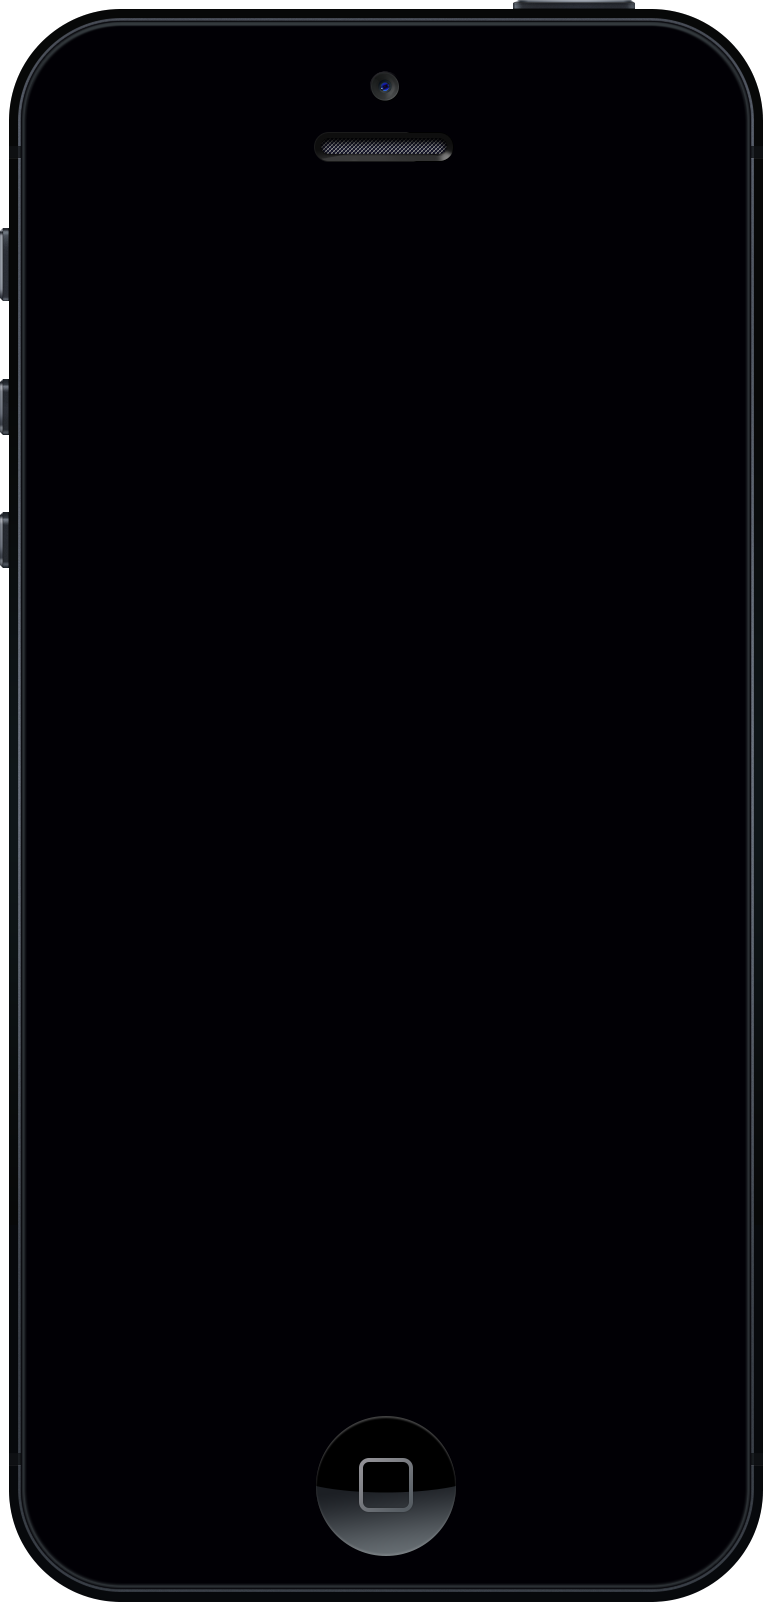
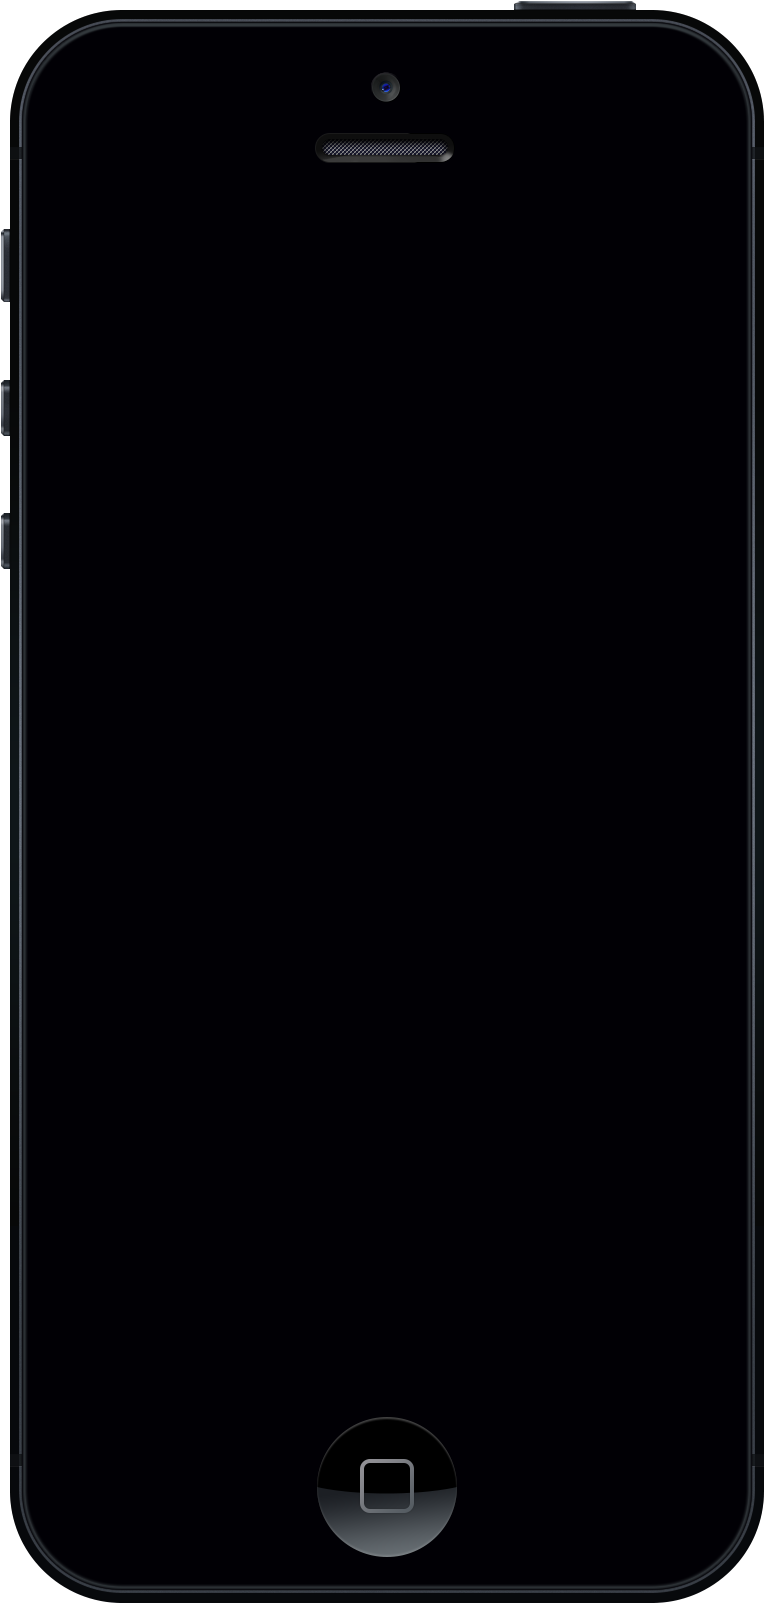
Fixed blurred devices

diff --git a/Resources/iPad/styles.css b/Resources/iPad/styles.css
@@ -3,8 +3,8 @@
 
 .simulator {
 	background: url(ipad.png) no-repeat;
-	background-size: 966px 1255px;
-	height: 1255px;
+	background-size: 966px 1256px;
+	height: 1256px;
 	padding-top: 115px;
 	padding-bottom: 115px;
 	padding-left: 100px;
@@ -14,8 +14,8 @@
 
 .simulator .simulator-glare {
 	background: url(ipad-glare.png) no-repeat top right;
-    background-size: 966px 1255px;
-	height: 1255px;
+    background-size: 966px 1256px;
+	height: 1256px;
 	width: 966px;
 }
 

diff --git a/Resources/iPhone5/styles.css b/Resources/iPhone5/styles.css
@@ -3,8 +3,8 @@
 
 .simulator {
 	background: url(iphone.png) no-repeat;
-	background-size: 382px 801px;
-	height: 801px;
+	background-size: 382px 802px;
+	height: 802px;
 	padding-top: 118px;
 	padding-bottom: 115px;
 	padding-left: 32px;
@@ -14,8 +14,8 @@
 
 .simulator .simulator-glare {
 	background: url(iphone-glare.png) no-repeat;
-	background-size: 382px 801px;
-	height: 801px;
+	background-size: 382px 802px;
+	height: 802px;
 	width: 382px;
 }
 

diff --git a/Source/Device/Device.iPhone5.js b/Source/Device/Device.iPhone5.js
@@ -39,7 +39,7 @@ Moobile.Simulator.Device['iPhone5'] = new Class({
 	getSize: function() {
 		return {
 			x: 382,
-			y: 801
+			y: 802
 		};
 	}
 

diff --git a/Source/Device/Device.iPad.js b/Source/Device/Device.iPad.js
@@ -75,7 +75,7 @@ Moobile.Simulator.Device['iPad'] = new Class({
 	getSize: function() {
 		return {
 			x: 966,
-			y: 1255
+			y: 1256
 		};
 	}
 
